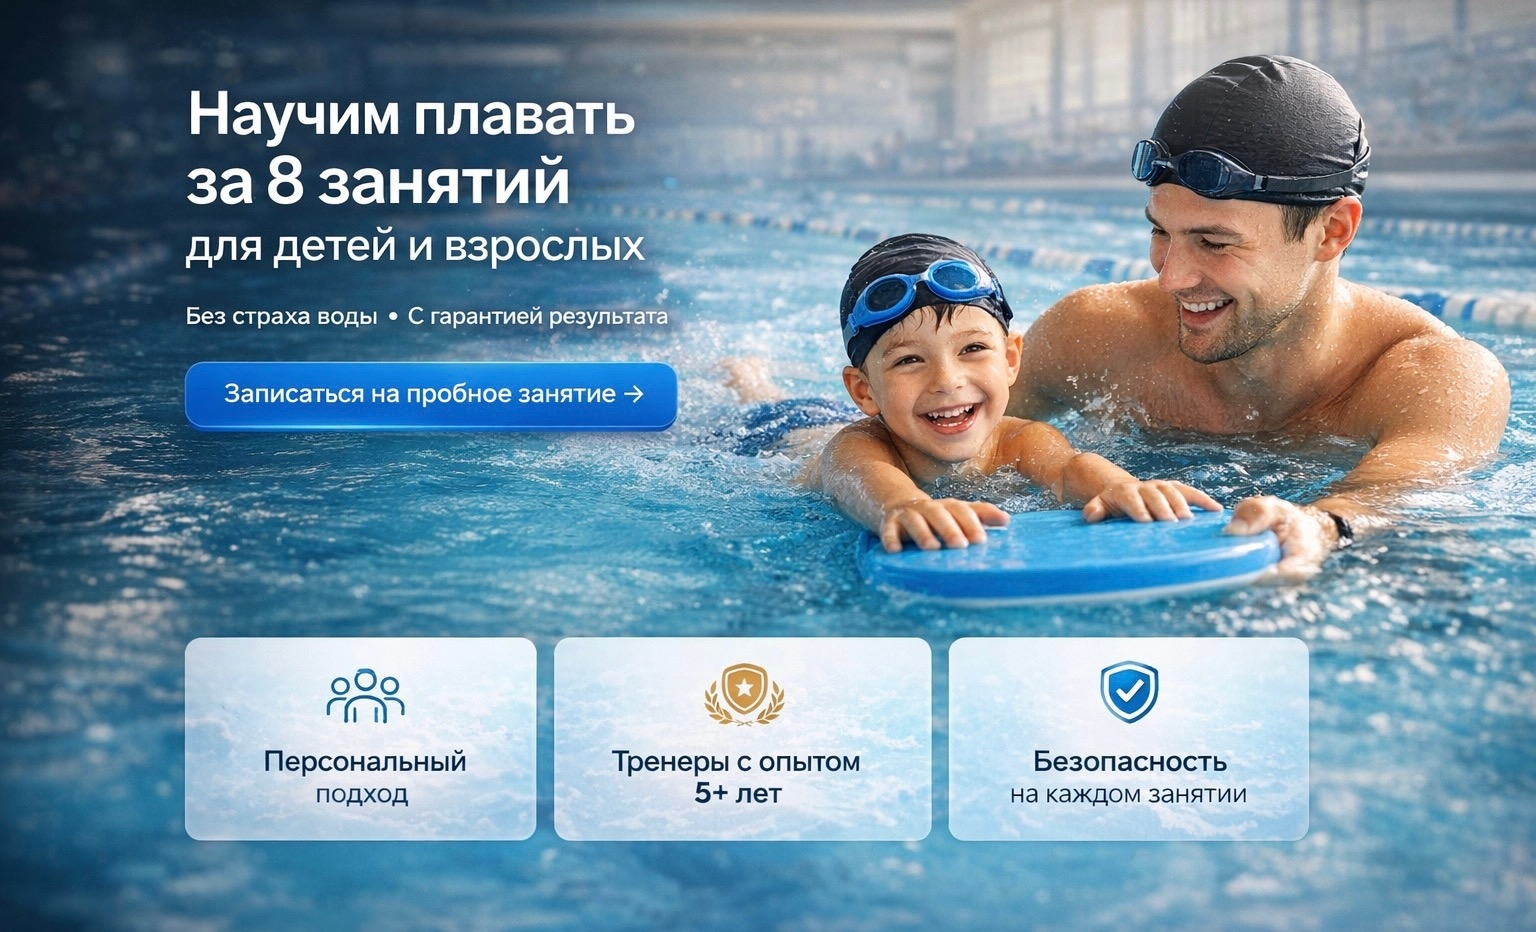
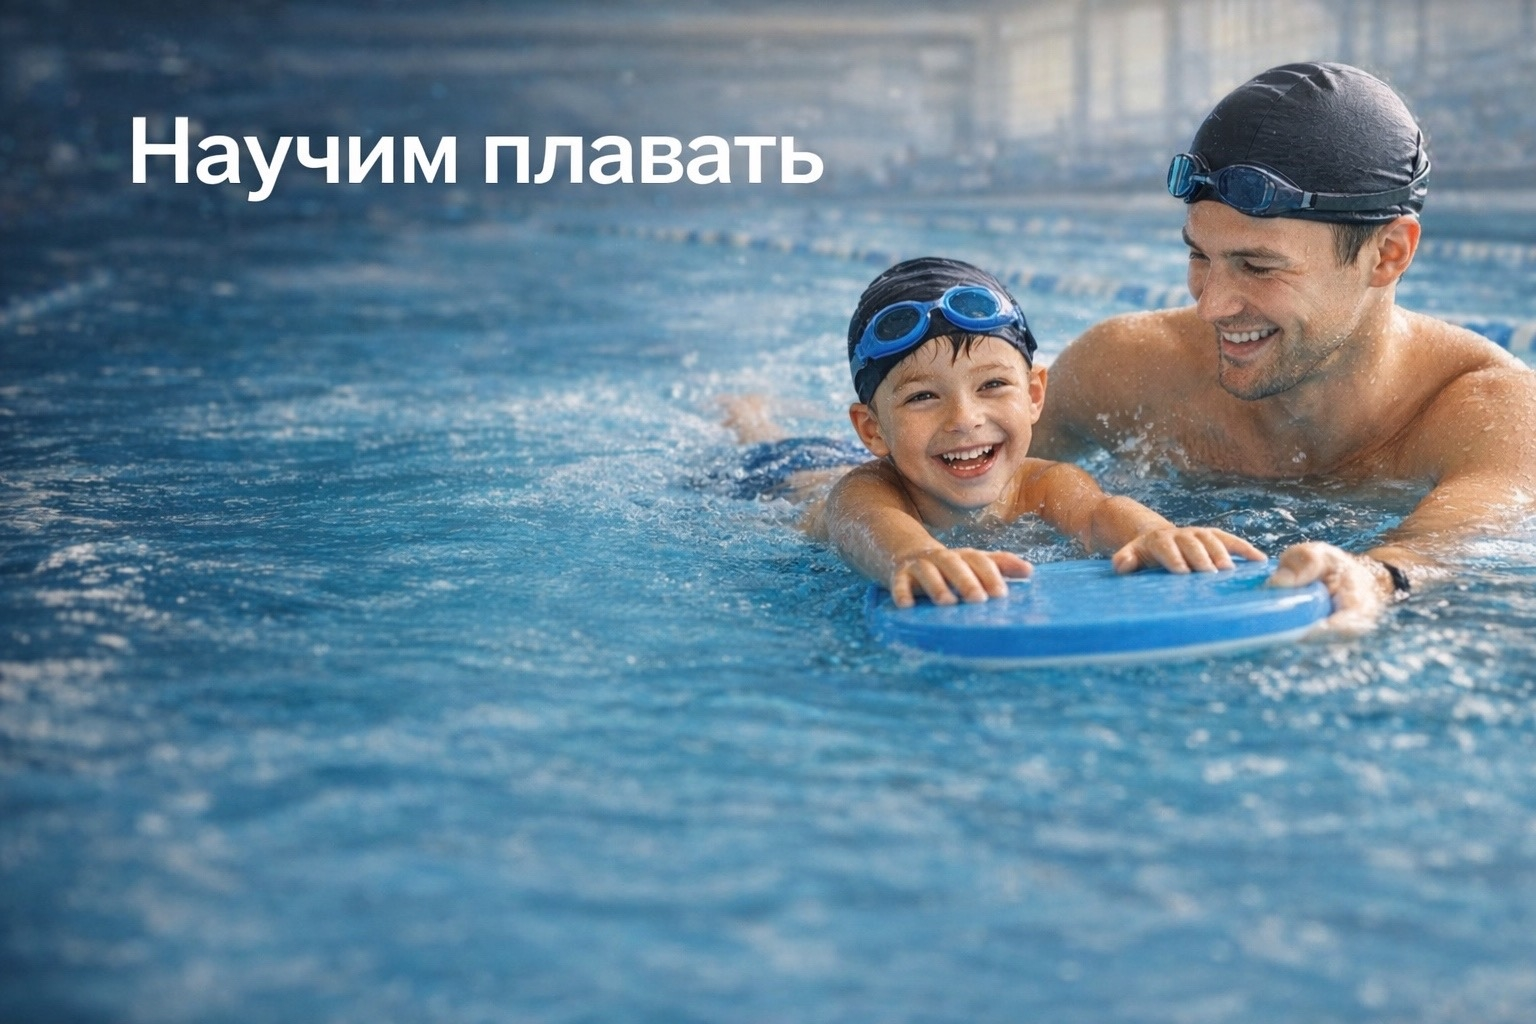
Add files via upload

diff --git a/AtlantSwim55-main/index.html b/AtlantSwim55-main/index.html
@@ -32,7 +32,7 @@
 
   <<section class="hero">
   <div class="hero-bg">
-    <img src="images/pool.png" alt="Школа плавания Атлант" />
+    <img src="images/pool.jpg" alt="Школа плавания Атлант" />
     <div class="overlay"></div>
   </div>
 
@@ -812,25 +812,40 @@ Berlin Nord, Berlin Ost</p>
 
 
   <section id="contacts" class="info-section">
-    <div class="container">
-      <h2>Контакты</h2>
+  <div class="container">
+    <h2>Контакты</h2>
 
-      <div class="contacts-grid">
-        <div>
-          <p><strong>Телефон:</strong> +49 000 000 00 00</p>
-          <p><strong>Email:</strong> info@atlant.de</p>
-          <p><strong>Адрес:</strong> Berlin, Musterstraße 1</p>
-        </div>
-
-        <form class="contact-form">
-          <input type="text" placeholder="Ваше имя" />
-          <input type="tel" placeholder="Ваш телефон" />
-          <textarea placeholder="Ваш комментарий"></textarea>
-          <button type="submit" class="main-btn">Отправить заявку</button>
-        </form>
+    <div class="contacts-grid">
+      <div>
+        <p><strong>Телефон:</strong> +7 913 148 22 99</p>
+        <p><strong>Email:</strong> info@atlant.ru</p>
+        <p><strong>Адрес:</strong> Омск, Дианова 14а</p>
       </div>
+
+      <form
+        class="contact-form"
+        action="https://api.web3forms.com/submit"
+        method="POST"
+      >
+        <input type="hidden" name="access_key" value="11678b3b-046b-4cad-b640-39b2640128e6">
+        <input type="hidden" name="subject" value="Новая заявка с сайта Атлант">
+        <input type="hidden" name="from_name" value="Сайт Атлант">
+        <input type="hidden" name="redirect" value="https://pankracdara.github.io/Atlant-swim/thanks.html">
+
+        <input type="text" name="name" placeholder="Ваше имя" required>
+        <input type="tel" name="phone" placeholder="Ваш телефон" required>
+        <textarea name="comment" placeholder="Ваш комментарий"></textarea>
+
+        <label class="agree">
+          <input type="checkbox" name="policy" required>
+          <span>Я даю согласие на обработку персональных данных и принимаю политику конфиденциальности</span>
+        </label>
+
+        <button type="submit" class="main-btn">Отправить заявку</button>
+      </form>
     </div>
-  </section>
+  </div>
+</section>
 
   <footer class="footer">
     <div class="container footer-inner">

diff --git a/AtlantSwim55-main/style.css b/AtlantSwim55-main/style.css
@@ -142,9 +142,11 @@ a {
 }
 
 .overlay {
-  position: absolute;
-  inset: 0;
-  background: rgba(230, 240, 250, 0.76);
+  background: linear-gradient(
+    to right,
+    rgba(0,0,0,0.5),
+    rgba(0,0,0,0.1)
+  );
 }
 
 .hero-content {
